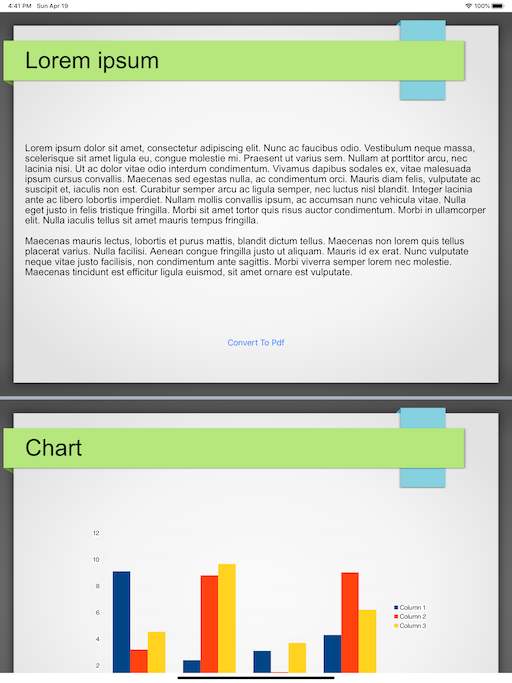
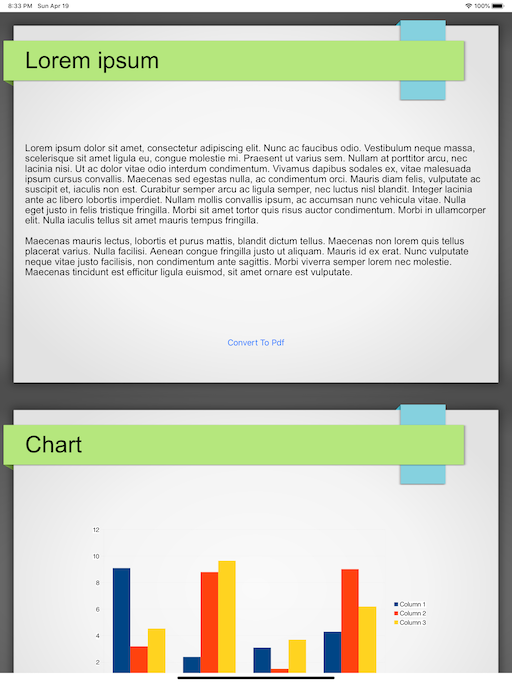
set div.slide margin

diff --git a/Ppt2PdfViaWKWebView/Model.swift b/Ppt2PdfViaWKWebView/Model.swift
@@ -44,17 +44,11 @@ extension UIPrintPageRenderer {
                 
         UIGraphicsBeginPDFContextToData(pdfData, self.paperRect, nil)
         
-        // 1ページごとに空白ページが挟まるため、(n+1)/2が真のページ数
-        let realNumberOfPages = (self.numberOfPages + 1) / 2
-        self.prepare(forDrawingPages: NSMakeRange(0, realNumberOfPages))
+        self.prepare(forDrawingPages: NSMakeRange(0, self.numberOfPages))
         
         let printRect = UIGraphicsGetPDFContextBounds()
 
         for pdfPage in 0..<self.numberOfPages {
-            // 空白ページは飛ばす
-            if pdfPage % 2 == 1 {
-                continue
-            }
             UIGraphicsBeginPDFPage()
             self.drawPage(at: pdfPage, in: printRect)
         }

diff --git a/Ppt2PdfViaWKWebView/MyWebView.swift b/Ppt2PdfViaWKWebView/MyWebView.swift
@@ -6,7 +6,7 @@ func getWebConfiguration() -> WKWebViewConfiguration {
     let webConfiguration = WKWebViewConfiguration()
     
     // remove margin
-    let bodyStyle = "body { margin: 0px 0px 0px 0px }"
+    let bodyStyle = "body { margin: 0px } div.slide { margin: 0px }"
     let source = "var node = document.createElement(\"style\"); node.innerHTML = \"\(bodyStyle)\";document.body.appendChild(node);"
     let script = WKUserScript(
         source: source,
